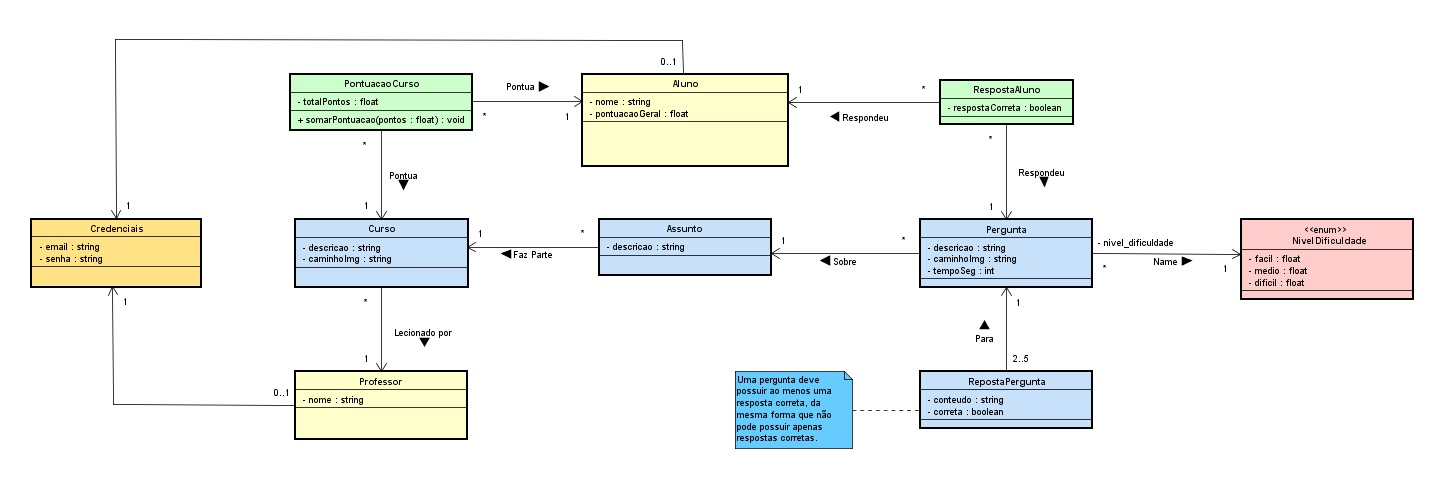
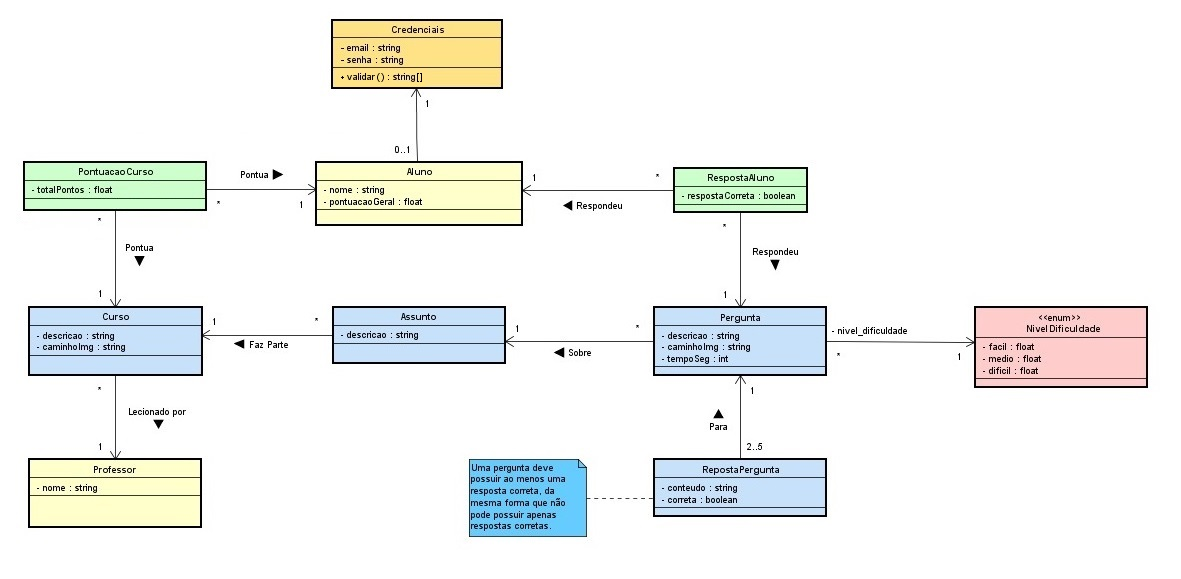
frontend - Implementa redirecionamento para tela de quiz
- Corrige testes e2e;
- Corrige diagrama essencial;
- Implementa botão para redirecionar para o quis de um assunto.

diff --git a/frontend/test/e2e/telas/TelaListagemCursos.ts b/frontend/test/e2e/telas/TelaListagemCursos.ts
@@ -4,59 +4,60 @@ import { rotasPaginas } from '../../../src/rotas';
 
 const URL = rotasPaginas.listagemCursos;
 
-export class TelaListagemCursos { 
+export class TelaListagemCursos {
     constructor(
         private page: Page
-    ){}
+    ) { }
 
     // Interação com a tela
-    async acessar(){
+    async acessar() {
         await this.page.goto(URL);
+        await this.page.locator(classes.curso).first().waitFor({ state: 'visible', timeout: 10000 });
     }
 
-    private buscarCursos(): Locator{
-        return this.page.locator(classes.curso);
-    }
-
-    async clicaPimeiroCard(){
-        const cursos = this.buscarCursos();
-        const primeiroCurso = cursos.first();
+    async clicarPrimeiroCard() {
+        const primeiroCurso = this.page.locator(classes.curso).first();
+        await primeiroCurso.waitFor({ state: 'visible', timeout: 5000 });
         await primeiroCurso.click();
         return primeiroCurso;
     }
 
-    async preencheTextoBusca(texto : string) {
-        const busca = this.page.locator('#input-busca');
+    async preencheTextoBusca(texto: string) {
+        const busca = this.page.locator(ids.busca);
+        await busca.waitFor({ state: 'visible', timeout: 5000 });
         await busca.fill(texto);
     }
 
     async apertaEnter() {
         await this.page.keyboard.press('Enter');
+        await this.page.waitForTimeout(500);
     }
-    
+
     // Expects
-    async deveExibirCurso(){
-        const cursos = this.buscarCursos();
-        expect(await cursos.count()).toBeGreaterThanOrEqual(1);
+    async deveExibirCurso() {
+        const cursos = this.page.locator(classes.curso);
+        await expect(cursos.first()).toBeVisible({ timeout: 5000 });
     }
 
-    async deveExibirAssuntosCurso(curso: Locator){
+    async deveExibirAssuntosCurso(curso: Locator) {
         const assuntos = curso.locator(classes.assuntos);
-        expect(await assuntos.isVisible()).toBe(true);
+        await expect(assuntos).toBeVisible({ timeout: 5000 });
     }
 
-    async deveExibirCursosFiltrados(filtro : string) {
-        const cursos = this.buscarCursos();
-        await expect(cursos.first()).toBeVisible();
+    async deveExibirCursosFiltrados(filtro: string) {
+        const cursos = this.page.locator(classes.curso);
+        await expect(cursos.first()).toBeVisible({ timeout: 5000 });
 
-        for (const c of await cursos.all()) {
+        const cursosList = await cursos.all();
+        
+        for (const c of cursosList) {
             const informacoes = c.locator(classes.infoCurso);
-            await expect(informacoes).toContainText(filtro);
+            await expect(informacoes).toContainText(filtro, { timeout: 5000 });
         }
     }
 
-    async deveExibirMensagem( mensagem : string) {
-        const mensagemExibida = await this.page.locator(ids.mensagem);
-        await expect(mensagemExibida).toContainText(mensagem);
+    async deveExibirMensagem(mensagem: string) {
+        const mensagemExibida = this.page.locator(ids.mensagem);
+        await expect(mensagemExibida).toContainText(mensagem, { timeout: 5000 });
     }
 }

diff --git a/frontend/test/e2e/listagem-cursos.spec.ts b/frontend/test/e2e/listagem-cursos.spec.ts
@@ -1,4 +1,4 @@
-import { test, expect, Page  } from 'playwright/test';
+import { test } from 'playwright/test';
 import { TelaListagemCursos } from './telas/TelaListagemCursos';
 
 test.describe( 'Listagem de Cursos', () => {
@@ -20,13 +20,13 @@ test.describe( 'Listagem de Cursos', () => {
     // Cenário: Listagem apresenta os assuntos de um curso ao clicar em seu card
     test( 'Apresenta os assuntos do curso ao clicar no card', async () => {
         // Quando clico no card de um curso
-        const primeiroCurso = await tela.clicaPimeiroCard();
+        const primeiroCurso = await tela.clicarPrimeiroCard();
         // Então o card se expande e lista os assuntos do curso em questão.
         await tela.deveExibirAssuntosCurso(primeiroCurso);
     });
 
     // Cenário: Listagem apresenta um curso ao buscar por parte de seu nome
-    test( 'Apresenta um curso ao buscar seu nome', async ({page} : {page: Page}) => {
+    test( 'Apresenta um curso ao buscar seu nome', async () => {
         // Quando digito parte do nome de um curso na caixa de pesquisa 
         await tela.preencheTextoBusca('Geografia');
         //      e aperto o botão enter
@@ -36,7 +36,7 @@ test.describe( 'Listagem de Cursos', () => {
     });
 
     // Cenário: Listagem apresenta um curso ao buscar pelo nome de seu professor
-    test( 'Apresenta um curso ao buscar o nome de seu professor', async ({page} : {page: Page}) => {
+    test( 'Apresenta um curso ao buscar o nome de seu professor', async () => {
         // Quando digito parte do nome de um professor na caixa de pesquisa 
         await tela.preencheTextoBusca('Amaurício');
         //      e aperto o botão enter
@@ -46,7 +46,7 @@ test.describe( 'Listagem de Cursos', () => {
     });
     
     // Cenário: Listagem não apresenta cursos ao buscar por um texto inexistente no nome de nenhum curso ou professor
-    test( 'Não apresenta cursos ao buscar um texto inexistente', async ({page} : {page: Page}) => {
+    test( 'Não apresenta cursos ao buscar um texto inexistente', async () => {
         // Quando digito um texto inexistente na caixa de pesquisa 
         await tela.preencheTextoBusca('INEXISTENTE');
         //      e aperto o botão enter

diff --git a/frontend/src/view/VisaoListagemCursosDOM.ts b/frontend/src/view/VisaoListagemCursosDOM.ts
@@ -4,6 +4,7 @@ import { ControladoraListagemCursos } from "../presenter/ControladoraListagemCur
 import { classes, ids } from "../ui/listagem-cursos-ui.ts";
 import { UtilDOM } from "../util/UtilDOM.ts";
 import { VisaoListagemCursos } from "./VisaoListagemCursos.ts";
+import { rotasPaginas } from "../rotas.ts";
 
 const DIRETORIO_IMAGENS = '../../img/cursos/';
 
@@ -137,6 +138,13 @@ export class VisaoListagemCursosDom implements VisaoListagemCursos{
         
         trAssunto.appendChild(tdDescricao);
         
+
+        const tdAcoes = UtilDOM.criaComClasses('td', ['assunto-acoes']); 
+        const botaoIniciarQuiz = UtilDOM.criaComTextoEClasses('button', 'iniciar quiz 🎲', ['botao-iniciar-quiz']);
+        botaoIniciarQuiz.addEventListener('click', this.redirecionarParaQuiz);
+        tdAcoes.appendChild(botaoIniciarQuiz);
+        trAssunto.appendChild(tdAcoes);
+
         return trAssunto;
     }
 
@@ -150,5 +158,15 @@ export class VisaoListagemCursosDom implements VisaoListagemCursos{
         secaoAssuntos!.toggleAttribute('hidden');
 
         botao!.textContent = (botao!.textContent == 'exibir assuntos') ? 'recolher assuntos' : 'exibir assuntos';
+    }
+
+    private redirecionarParaQuiz(event: Event){
+        event.stopPropagation();
+        const botao = event.target as HTMLButtonElement;
+
+        const idAssunto = (botao.closest(`.${classes.linhaAssunto}`) as HTMLTableRowElement).dataset.id;
+        const idCurso = (botao.closest(classes.curso) as HTMLDivElement).dataset.id;
+
+        window.location.href = `${rotasPaginas.quiz}?curso=${idCurso}&assunto=${idAssunto}`;
     }
 }

diff --git a/frontend/style/index.css b/frontend/style/index.css
@@ -152,6 +152,16 @@ header .logotipo {
     width: 30%;
 }
 
+.botao-iniciar-quiz {
+    border: none;
+    border-bottom: 2px solid #820EC0;
+    color: #820EC0;
+    background: none;
+    padding: 4px 8px;
+    cursor: pointer;
+    border-radius: 5px;
+}
+
 /* Acoes do Curso */
 .curso-acoes {
     display: flex;
@@ -167,6 +177,8 @@ header .logotipo {
     cursor: pointer;
     border-radius: 5px;
 }
+
+
 
 /* ========================================================== */
 /* Estilos específicos para telas menores */
